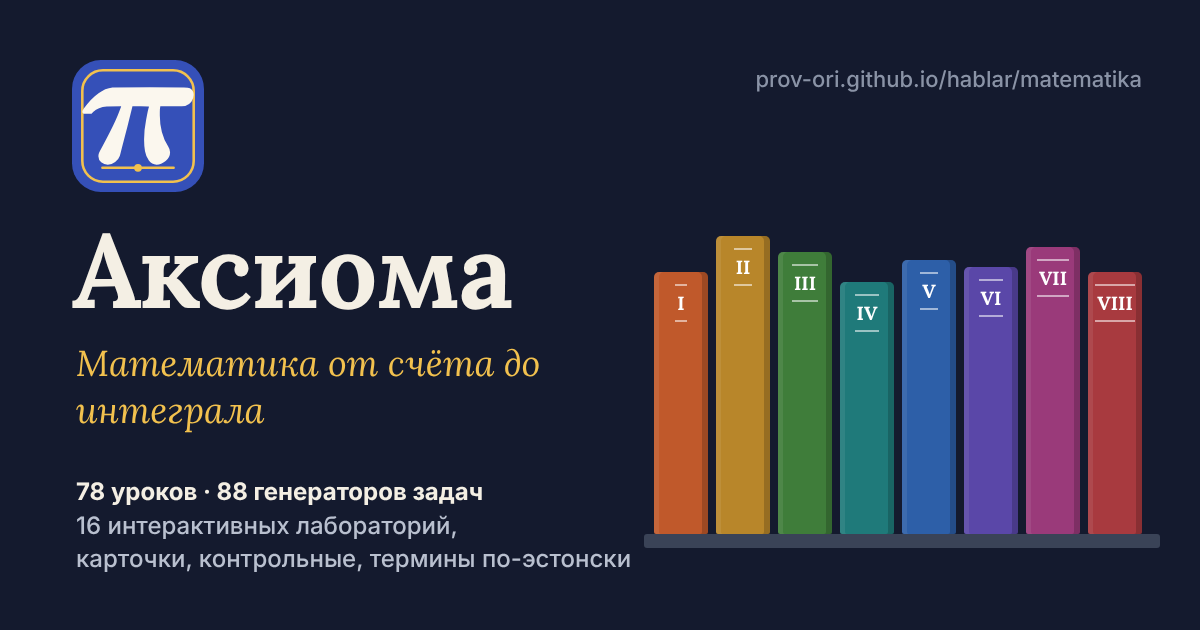
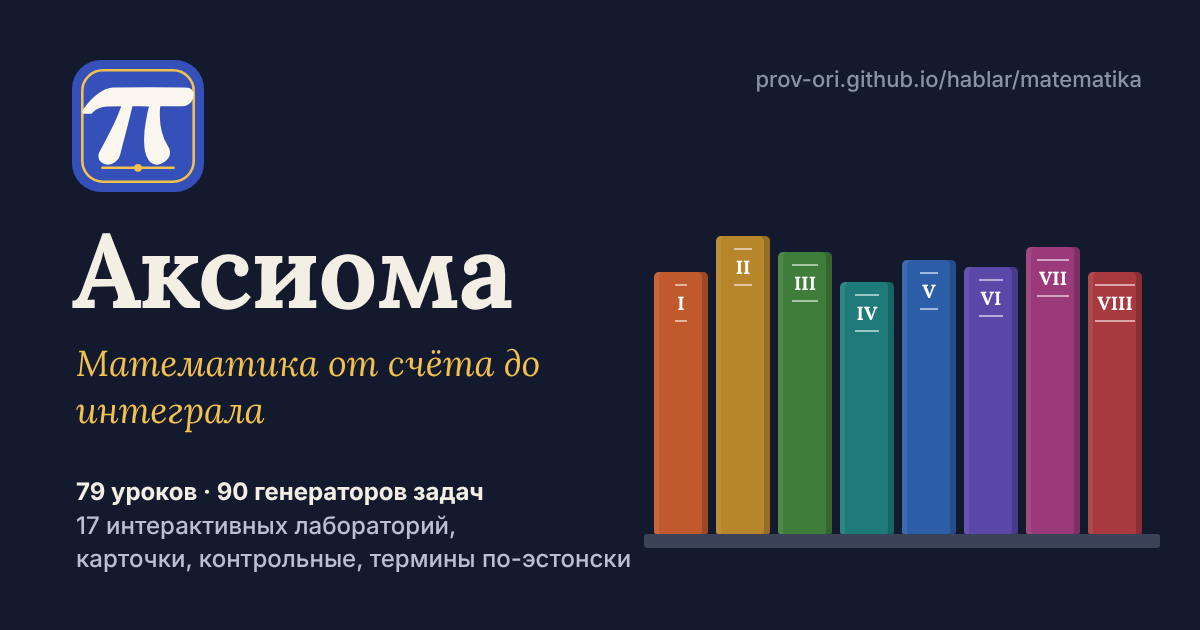
Add financial maths, loan lab and Estonian terminology trainer
- c5: lesson 'Финансовая математика' (simple/compound interest, effective rate, annuity loans, inflation, taxes)
- labs: loan calculator with balance and interest curves
- drills: d-finance; d-terms built from 410 Russian–Estonian pairs collected from all lessons
- fix Estonian terms: proper fraction is 'õige murd' (not 'lihtmurd'), protractor is 'nurgamõõtja'

Claude-Session: https://claude.ai/code/session_01792FmukhtfPDoVgYtZogG1

Changed region(s): [[0.0617, 0.754, 0.4008, 0.8746], [0.0617, 0.754, 0.0925, 0.7841]]

diff --git a/matematika/c5.js b/matematika/c5.js
@@ -447,5 +447,55 @@ $1 + \frac{1}{2} + \frac{1}{4} + \frac{1}{8} + \ldots = \frac{1}{1 - 0{,}5} = 2$
     ['Числа 4, $x$, 16 образуют геометрическую прогрессию ($x > 0$). $x = ?$', ['8', '10', '12', '6'], 0, '$x^2 = 64$.']
   ],
   events: [[-450, 'Зенон Элейский формулирует парадокс об Ахиллесе и черепахе', 'около 450 г. до н. э.']]
+},
+{
+  id: 'finance', title: 'Финансовая математика', sub: 'Простые и сложные проценты, кредит, инфляция, налоги', src: 'teacher',
+  body: String.raw`Проценты — это не только задачи из учебника: по ним считают вклады, кредиты, лизинг, инфляцию и налоги. В эстонской гимназии финансовая математика входит в узкий курс (kitsas matemaatika), а в расширенном опирается на прогрессии и логарифмы.
+
+## Простые и сложные проценты
+- **Простые**: проценты начисляются только на исходную сумму. $S = S_0(1 + rt)$ — арифметическая прогрессия.
+- **Сложные**: проценты начисляются и на уже начисленные проценты. $S = S_0(1 + r)^t$ — геометрическая прогрессия.
+
+1000 € под 5% годовых на 10 лет: простые — $1000 \cdot 1{,}5 = 1500$ €, сложные — $1000 \cdot 1{,}05^{10} \approx 1629$ €. Разница растёт со временем.
+
+## Частое начисление и эффективная ставка
+Если ставка 6% годовых, а проценты начисляют ежемесячно, за месяц добавляется $\frac{6\%}{12} = 0{,}5\%$. За год:
+$$(1 + 0{,}005)^{12} - 1 \approx 6{,}17\%$$
+Это **эффективная** годовая ставка. Банки в Эстонии обязаны указывать в договоре кредита **годовую процентную ставку затрат** (krediidi kulukuse määr) — она учитывает и комиссии, поэтому сравнивайте кредиты именно по ней.
+
+## Кредит с равными платежами (аннуитет)
+Кредит $S$ на $n$ месяцев под месячную ставку $i$ гасится одинаковыми платежами
+$$A = S \cdot \frac{i}{1 - (1 + i)^{-n}}$$
+Пример: 10 000 € на 5 лет под 6% годовых. $i = 0{,}005$, $n = 60$:
+$$A = 10\,000 \cdot \frac{0{,}005}{1 - 1{,}005^{-60}} \approx 193{,}33 \text{ €}$$
+Всего будет выплачено $60 \cdot 193{,}33 \approx 11\,600$ €, из них 1600 € — проценты. В начале срока большая часть платежа уходит на проценты, в конце — на погашение долга.
+@lab lab-loan
+>! Формула получается из суммы геометрической прогрессии: текущая стоимость всех будущих платежей равна сумме кредита.
+
+## Инфляция
+Если цены растут на $\pi$ в год, а вклад приносит $r$, то **реальная** доходность
+$$\frac{1 + r}{1 + \pi} - 1 \approx r - \pi$$
+Вклад под 3% при инфляции 5% на самом деле теряет около 1,9% покупательной способности в год.
+
+## Налоги
+Налог с оборота (käibemaks) уже включён в цену товара: цена без налога $\times (1 + \text{ставка})$. Подоходный налог (tulumaks) считают с дохода за вычетом необлагаемого минимума.
+>? Ставки меняются :: Упрощённый пример: ставка подоходного налога 22%, необлагаемый минимум 700 € в месяц. Тогда с зарплаты 1800 € налог $0{,}22 \cdot (1800 - 700) = 242$ €. Реальный расчёт учитывает также страхование от безработицы и II пенсионную ступень, а ставки и минимум меняются по годам — актуальные значения смотрите на emta.ee.
+
+## Правило 72 (70)
+Срок удвоения при ставке $r\%$ — примерно $\frac{72}{r}$ лет. При 6% — около 12 лет; точно $\frac{\ln 2}{\ln 1{,}06} \approx 11{,}9$.
+@drill d-finance
+>e процент — protsent, простые проценты — lihtintress, сложные проценты — liitintress, кредит — laen, ежемесячный платёж — kuumakse, процентная ставка — intressimäär, инфляция — inflatsioon, налог — maks, подоходный налог — tulumaks, налог с оборота — käibemaks.`,
+  facts: [['Простые проценты', '$S_0(1 + rt)$'], ['Сложные проценты', '$S_0(1 + r)^t$'], ['Эффективная ставка', '$(1 + \\frac{r}{m})^m - 1$'], ['Аннуитет', '$A = S\\frac{i}{1 - (1 + i)^{-n}}$'], ['Реальная доходность', '$\\frac{1 + r}{1 + \\pi} - 1$'], ['Правило 72', 'удвоение за $\\approx 72/r$ лет']],
+  cards: [['Чем сложные проценты отличаются от простых?', 'Проценты начисляются и на ранее начисленные проценты'], ['Формула аннуитетного платежа', '$A = S \\cdot \\frac{i}{1 - (1 + i)^{-n}}$'], ['Эффективная ставка при 12% годовых с ежемесячным начислением', '$1{,}01^{12} - 1 \\approx 12{,}68\\%$'], ['Вклад 4%, инфляция 6%. Реальная доходность?', 'Около −1,9% в год'], ['По какому показателю сравнивать кредиты?', 'По годовой процентной ставке затрат (krediidi kulukuse määr)'], ['Правило 72', 'Деньги удваиваются примерно за 72 / ставка лет']],
+  quiz: [
+    ['500 € под 4% простых годовых на 3 года — итог', ['560 €', '562,43 €', '520 €', '600 €'], 0, '$500(1 + 0{,}12)$; 562,43 € — это сложные проценты.'],
+    ['1000 € под 10% сложных годовых на 2 года — итог', ['1210 €', '1200 €', '1020 €', '1100 €'], 0, '$1000 \\cdot 1{,}1^2$.'],
+    ['Ставка 12% годовых, начисление ежемесячно. Эффективная годовая ставка —', ['больше 12%', 'ровно 12%', 'меньше 12%', '1%'], 0, '$1{,}01^{12} - 1 \\approx 12{,}68\\%$.'],
+    ['Что растёт по геометрической прогрессии?', ['сумма по сложным процентам', 'сумма по простым процентам', 'платёж по аннуитету', 'необлагаемый минимум'], 0, ''],
+    ['Вклад 2%, инфляция 4%. Покупательная способность вклада…', ['падает', 'растёт', 'не меняется', 'удваивается'], 0, ''],
+    ['При ставке 8% деньги удвоятся примерно за…', ['9 лет', '8 лет', '16 лет', '12 лет'], 0, '$72 : 8$.'],
+    ['Товар стоит 62 € с налогом 24%. Цена без налога —', ['50 €', '47,12 €', '38 €', '48,36 €'], 0, '$62 : 1{,}24$. Вычитать 24% от 62 € — ошибка.']
+  ],
+  events: [[1494, 'Лука Пачоли публикует правило 72 для удвоения капитала', '1494']]
 }
 ]);

diff --git a/matematika/c2.js b/matematika/c2.js
@@ -118,7 +118,7 @@ $$\frac{2}{3} = \frac{4}{6} = \frac{10}{15}, \qquad \frac{18}{24} = \frac{18 : 6
 @lab lab-fraction
 @drill d-simplify
 @drill d-fraccmp
->e дробь — murd, числитель — lugeja, знаменатель — nimetaja, сокращать — taandama, смешанное число — segaarv, правильная дробь — lihtmurd (õige murd), общий знаменатель — ühine nimetaja.`,
+>e дробь — murd, числитель — lugeja, знаменатель — nimetaja, сокращать — taandama, смешанное число — segaarv, обыкновенная дробь — harilik murd, правильная дробь — õige murd, неправильная дробь — liigmurd, общий знаменатель — ühine nimetaja.`,
   facts: [['$\\frac{a}{b}$', '$a : b$'], ['Правильная', 'числитель < знаменатель'], ['Основное свойство', '$\\frac{a}{b} = \\frac{ak}{bk}$'], ['Сократить до конца', 'разделить на НОД'], ['$\\frac{1}{3}$ vs $\\frac{1}{5}$', 'при равных числителях больше дробь с меньшим знаменателем'], ['$\\frac{7}{3}$', '$2\\frac{1}{3}$']],
   cards: [['Что показывает знаменатель?', 'На сколько равных частей разделили целое'], ['Основное свойство дроби', 'Числитель и знаменатель можно умножить или разделить на одно число ≠ 0'], ['Сократите $\\frac{24}{36}$', '$\\frac{2}{3}$'], ['Запишите $\\frac{11}{4}$ смешанным числом', '$2\\frac{3}{4}$'], ['Запишите $3\\frac{2}{5}$ неправильной дробью', '$\\frac{17}{5}$'], ['Что больше: $\\frac{2}{3}$ или $\\frac{3}{5}$?', '$\\frac{2}{3}$, так как $\\frac{10}{15} > \\frac{9}{15}$']],
   quiz: [
@@ -326,7 +326,7 @@ $$\frac{a}{b} = \frac{c}{d} \iff a \cdot d = b \cdot c$$
 ## Деление в отношении
 Разделить 60 € между братьями в отношении $2 : 3$: всего $2 + 3 = 5$ частей, одна часть $60 : 5 = 12$ €, братья получат 24 € и 36 €.
 @drill d-proportion
->e отношение — suhe, пропорция — võrdekujuline seos (võrre), прямая пропорциональность — võrdeline sõltuvus, обратная — pöördvõrdeline sõltuvus, масштаб — mõõtkava.`,
+>e отношение — suhe, пропорция — võrre, прямая пропорциональность — võrdeline sõltuvus, обратная — pöördvõrdeline sõltuvus, масштаб — mõõtkava.`,
   facts: [['Пропорция', '$\\frac{a}{b} = \\frac{c}{d}$'], ['Свойство', '$ad = bc$'], ['Прямая', '$\\frac{y}{x} = \\text{const}$'], ['Обратная', '$xy = \\text{const}$'], ['1 : 50 000', '1 см ↔ 500 м'], ['Деление в отношении $m : n$', 'одна часть = целое : $(m + n)$']],
   cards: [['Основное свойство пропорции', 'Произведение крайних равно произведению средних: $ad = bc$'], ['Найдите $x$: $\\frac{x}{9} = \\frac{4}{6}$', '$x = 6$'], ['Что значит масштаб 1 : 25 000?', '1 см на карте = 250 м на местности'], ['Пример обратной пропорциональности', 'Скорость и время на фиксированном пути'], ['Разделите 40 в отношении 3 : 5', '15 и 25']],
   quiz: [
@@ -404,7 +404,7 @@ $$C = 2\pi r = \pi d, \qquad S = \pi r^2$$
 Часть круга между двумя радиусами — **сектор**. Если угол сектора $\alpha$, его площадь — $\frac{\alpha}{360°}$ от площади круга. Так устроены круговые диаграммы: доля 25% — это сектор $90°$.
 @drill d-circle
 @drill d-angles1
->e угол — nurk, градус — kraad, транспортир — malli, смежные углы — kõrvunurgad, вертикальные углы — tippnurgad, длина окружности — ringjoone pikkus, площадь круга — ringi pindala, сектор — sektor.`,
+>e угол — nurk, градус — kraad, транспортир — nurgamõõtja, смежные углы — kõrvunurgad, вертикальные углы — tippnurgad, длина окружности — ringjoone pikkus, площадь круга — ringi pindala, сектор — sektor.`,
   facts: [['$\\pi$', '$\\approx 3{,}14$'], ['$C$', '$2\\pi r$'], ['$S$ круга', '$\\pi r^2$'], ['Смежные', 'в сумме 180°'], ['Вертикальные', 'равны'], ['Углы треугольника', '180°'], ['Сектор $\\alpha$', '$\\frac{\\alpha}{360°}\\pi r^2$']],
   cards: [['Что такое π?', 'Отношение длины окружности к диаметру, ≈ 3,14'], ['Длина окружности', '$C = 2\\pi r$'], ['Площадь круга', '$S = \\pi r^2$'], ['Сумма смежных углов', '180°'], ['Сумма углов треугольника', '180°'], ['Сколько градусов в секторе, изображающем 10% круговой диаграммы?', '36°']],
   quiz: [

diff --git a/matematika/drills.js b/matematika/drills.js
@@ -725,5 +725,22 @@
     if (lv === 2) return R.int(0, 1) ? { q: 'Правильная четырёхугольная пирамида: сторона основания ' + a + ', высота ' + hh + '. Найдите апофему.', a: m, kb: 'numeric', sol: '$\\sqrt{' + hh + '^2 + ' + half + '^2}$' } : { q: 'Правильная четырёхугольная пирамида: сторона основания ' + a + ', апофема ' + m + '. Найдите боковую поверхность.', a: 2 * a * m, kb: 'numeric', sol: '$\\frac{1}{2} \\cdot ' + 4 * a + ' \\cdot ' + m + '$' };
     return { q: 'Правильная четырёхугольная пирамида: сторона основания ' + a + ', апофема ' + m + '. Найдите объём.', a: a * a * hh / 3, kb: 'numeric', sol: 'Высота $\\sqrt{' + m + '^2 - ' + half + '^2} = ' + hh + '$, $V = \\frac{1}{3} \\cdot ' + a * a + ' \\cdot ' + hh + '$' };
   }, 'пирамида призма апофема');
+  /* ——— Финансы и термины ——— */
+  D(5, 'finance', 'd-finance', '🏦', 'Финансовая математика', 'Простые и сложные проценты, эффективная ставка, кредит. Ответ до сотых.', ['Простые и сложные', 'Эффективная ставка и удвоение', 'Ежемесячный платёж'], (lv, R) => {
+    if (lv === 1) { const S = R.int(2, 40) * 100, r = R.pick([2, 3, 4, 5, 6, 8, 10]), t = R.int(2, 8), cmp = R.int(0, 1); const v = cmp ? S * (1 + r / 100) ** t : S * (1 + r * t / 100); return { q: 'Вклад ' + S + ' € под ' + r + '% годовых, ' + (cmp ? 'сложные' : 'простые') + ' проценты. Сколько будет через ' + t + ' лет?', a: R.round(v, 2), tol: 0.011, show: R.num(R.round(v, 2)) + ' €', unit: '€', kb: 'decimal', sol: cmp ? '$' + S + ' \\cdot ' + R.tn(1 + r / 100) + '^{' + t + '}$' : '$' + S + '(1 + ' + R.tn(r / 100) + ' \\cdot ' + t + ')$' }; }
+    if (lv === 2) { const r = R.pick([3, 4, 5, 6, 8, 9, 12]); if (R.int(0, 1)) { const v = 100 * ((1 + r / 1200) ** 12 - 1); return { q: 'Ставка ' + r + '% годовых, проценты начисляются ежемесячно. Найдите эффективную годовую ставку (в %, до сотых).', a: R.round(v, 4), tol: 0.011, show: R.num(R.round(v, 2)) + '%', unit: '%', kb: 'decimal', sol: '$\\left(1 + \\frac{' + R.tn(r / 100) + '}{12}\\right)^{12} - 1$' }; } const t = Math.ceil(Math.log(2) / Math.log(1 + r / 100)); return { q: 'Через сколько полных лет вклад под ' + r + '% годовых (сложные проценты) впервые станет больше чем вдвое?', a: t, unit: 'лет', kb: 'numeric', sol: '$t > \\frac{\\ln 2}{\\ln ' + R.tn(1 + r / 100) + '} \\approx ' + R.tn(R.round(Math.log(2) / Math.log(1 + r / 100), 2)) + '$ (правило 72: ' + R.tn(R.round(72 / r, 1)) + ')' }; }
+    const S = R.int(2, 40) * 500, r = R.pick([3, 4, 5, 6, 7.2, 9, 12]), y = R.int(1, 10); const i = r / 1200, n = 12 * y; const A = S * i / (1 - (1 + i) ** -n);
+    return { q: 'Кредит ' + S + ' € на ' + y + ' ' + (y === 1 ? 'год' : y < 5 ? 'года' : 'лет') + ' под ' + R.num(r) + '% годовых, равные ежемесячные платежи. Найдите платёж (до сотых).', a: R.round(A, 2), tol: 0.011, show: R.num(R.round(A, 2)) + ' €', unit: '€', kb: 'decimal', sol: '$i = ' + R.tn(R.round(i, 6)) + '$, $n = ' + n + '$, $A = ' + S + ' \\cdot \\frac{i}{1 - (1 + i)^{-' + n + '}}$' };
+  }, 'кредит проценты вклад инфляция');
+
+  // Эстонские термины: пары собираются из строк «По-эстонски» всех уроков
+  const TERMS = (() => { const seen = new Set(), out = []; for (const l of PLATFORM.lessons) for (const m of l.body.matchAll(/^>e\s+(.*)$/gm)) { let t = m[1]; const k = t.indexOf('Термины:'); if (k >= 0) t = t.slice(k + 8); for (const ch of t.replace(/\.$/, '').split(/,\s+/)) { const p = ch.split(' — '); if (p.length !== 2) continue; const ru = p[0].trim(), et = p[1].trim(); if (!/[а-яё]/i.test(ru) || /[а-яё]/i.test(et) || ru.length > 40 || et.length > 45 || /\$/.test(ru + et) || seen.has(ru) || seen.has('et:' + et)) continue; seen.add(ru); seen.add('et:' + et); out.push({ ru, et, c: l.course }); } } return out; })();
+  PLATFORM.estTerms = TERMS;
+  D(5, null, 'd-terms', '🇪🇪', 'Термины по-эстонски', 'Математические термины всех курсов: ' + TERMS.length + ' пар «русский — эстонский».', ['Курсы I–IV: рус → эст', 'Курсы V–VIII: рус → эст', 'Все курсы: эст → рус'], (lv, R) => {
+    const pool = lv === 1 ? TERMS.filter(t => t.c <= 4) : lv === 2 ? TERMS.filter(t => t.c >= 5) : TERMS;
+    const t = R.pick(pool); const others = R.sample(pool.filter(x => x !== t), 3);
+    if (lv < 3) return { q: 'Как по-эстонски «' + t.ru + '»?', opts: [t.et, ...others.map(x => x.et)], sol: t.ru + ' — **' + t.et + '**' };
+    return { q: 'Что означает «' + t.et + '»?', opts: [t.ru, ...others.map(x => x.ru)], sol: t.et + ' — **' + t.ru + '**' };
+  }, 'эстонский термины eesti keel');
 })();
 

diff --git a/matematika/labs.js b/matematika/labs.js
@@ -373,4 +373,26 @@
     mode.querySelectorAll('[data-r]').forEach(b => b.onclick = () => { const k = +b.dataset.r; if (!k) { st.n = 0; st.cnt = {}; } const two = mode.querySelector('select').value === '2'; for (let i = 0; i < k; i++) { const x = 1 + Math.floor(Math.random() * 6) + (two ? 1 + Math.floor(Math.random() * 6) : 0); st.cnt[x] = (st.cnt[x] || 0) + 1; st.n++; } s.redraw(); });
     el.appendChild(s.ro); s.redraw();
   }, 'вероятность кубик частота закон больших чисел');
+  /* 17. Кредитный калькулятор */
+  L(5, 'finance', 'lab-loan', '🏦', 'Кредитный калькулятор', 'Сумма, ставка и срок: ежемесячный платёж, переплата и как тает долг.', (el, K) => {
+    let P;
+    const s = setup(el, ro => {
+      const S = v.S, i = v.r / 100 / 12, n = v.y * 12;
+      const A = i ? S * i / (1 - (1 + i) ** -n) : S / n;
+      P.xmin = -0.03 * v.y; P.xmax = v.y * 1.04; P.ymin = -S * 0.03; P.ymax = S * 1.12; P.size(); P.clear(); const c = P.c, ctx = P.ctx;
+      ctx.strokeStyle = c.line; ctx.lineWidth = 1; ctx.fillStyle = c.muted; ctx.font = '12px system-ui'; ctx.textAlign = 'center';
+      const stepY = v.y <= 10 ? 1 : 5; for (let t = 0; t <= v.y; t += stepY) { ctx.beginPath(); ctx.moveTo(P.X(t), 0); ctx.lineTo(P.X(t), P.h - 18); ctx.stroke(); ctx.fillText(t + (t ? ' г.' : ''), P.X(t), P.h - 4); }
+      ctx.textAlign = 'left'; for (let q = 1; q <= 4; q++) { const y = S * q / 4; ctx.beginPath(); ctx.moveTo(0, P.Y(y)); ctx.lineTo(P.w, P.Y(y)); ctx.stroke(); ctx.fillText(Math.round(y).toLocaleString('ru-RU') + ' €', 4, P.Y(y) - 3); }
+      let bal = S, paidInt = 0; const pb = [[0, S]], pi = [[0, 0]];
+      for (let m = 1; m <= n; m++) { const int = bal * i; paidInt += int; bal -= A - int; if (m % 3 === 0 || m === n) { pb.push([m / 12, Math.max(0, bal)]); pi.push([m / 12, paidInt]); } }
+      P.poly([...pb, [v.y, 0], [0, 0]], alpha(c.acc, .15), null);
+      const line = (pts, col, w) => { ctx.strokeStyle = col; ctx.lineWidth = w; ctx.beginPath(); pts.forEach(([x, y], k) => k ? ctx.lineTo(P.X(x), P.Y(y)) : ctx.moveTo(P.X(x), P.Y(y))); ctx.stroke(); };
+      line(pb, c.acc, 3); line(pi, c.bad, 3);
+      const total = A * n;
+      ro.innerHTML = '<div class="bigf">' + K.tex('A = ' + tn(S, 0) + ' \\cdot \\frac{' + tn(i, 5) + '}{1 - ' + tn(1 + i, 5) + '^{-' + n + '}} \\approx ' + tn(A, 2) + '\\text{ €}') + '</div>Ежемесячный платёж <b>' + fmt(A, 2) + ' €</b>, всего выплатите <b>' + fmt(total, 0) + ' €</b>, из них проценты (переплата) <b style="color:var(--bad)">' + fmt(total - S, 0) + ' €</b> — это ' + fmt(100 * (total - S) / S, 1) + '% от суммы кредита.<br>Синяя линия — остаток долга, красная — уже выплаченные проценты. Попробуйте удвоить срок: платёж уменьшится, а переплата вырастет.';
+    });
+    P = plane(el, { xmin: 0, xmax: 5, ymin: 0, ymax: 11000, ratio: 0.5, maxH: 340 });
+    const v = controls(el, [['S', 'Сумма, €', 1000, 50000, 500, 10000], ['r', 'Ставка, % годовых', 0, 20, 0.5, 6], ['y', 'Срок, лет', 1, 30, 1, 5]], K, s.redraw);
+    el.appendChild(s.ro); s.redraw();
+  }, 'кредит аннуитет проценты калькулятор');
 })();

diff --git a/matematika/c1.js b/matematika/c1.js
@@ -28,7 +28,7 @@ PLATFORM.add(1, [
 Числа удобно представлять точками на прямой: 0 слева, а каждый шаг вправо добавляет единицу. Чем правее точка, тем больше число. На этой идее позже построены отрицательные числа и графики функций.
 @drill d-place
 @drill d-compare
->e число — arv, цифра — number (!), разряд — järk, единицы — üheliste järk, десятки — kümneliste järk, сотни — sajaliste järk, чётное — paarisarv, нечётное — paaritu arv.
+>e число — arv, цифра — number (а число — arv!), разряд — järk, единицы — üheliste järk, десятки — kümneliste järk, сотни — sajaliste järk, чётное — paarisarv, нечётное — paaritu arv.
 >i Наши цифры называют арабскими, но придумали их в Индии; в Европу их принёс Фибоначчи в «Книге абака» (1202).`,
   facts: [['Цифр', '10: от 0 до 9'], ['Система', 'десятичная позиционная'], ['10 единиц', '1 десяток'], ['10 десятков', '1 сотня'], ['10 сотен', '1 тысяча'], ['Сравнение', 'по количеству цифр, затем слева направо'], ['Чётное', 'оканчивается на 0, 2, 4, 6, 8']],
   cards: [['Сколько цифр в десятичной системе?', 'Десять: 0–9'], ['Что означает цифра 3 в числе 308?', 'Три сотни (300)'], ['Как сравнить 472 и 481?', 'По старшим разрядам слева направо: 7 десятков < 8 десятков, значит $472 < 481$'], ['Как узнать чётное число?', 'По последней цифре: 0, 2, 4, 6, 8'], ['Разложите 652 по разрядам', '$600 + 50 + 2$'], ['Сколько десятков в сотне?', '10']],

diff --git a/matematika/extra.js b/matematika/extra.js
@@ -174,6 +174,8 @@ PLATFORM.about = String.raw`«Аксиома» — бесплатный учеб
 - **Задачник** — генераторы задач с бесконечным числом вариантов, тремя уровнями сложности, проверкой ответа и разбором. Уровень засчитывается за 8 верных из 10.
 - **Лаборатория** — интерактивные модели: двигайте ползунки и тяните точки, чтобы увидеть, как устроены функции, тригонометрия, производная и интеграл.
 - **Контрольные** — задания в формате экзамена с полными решениями и самооценкой.
+- **Термины по-эстонски** — тренажёр из 400+ пар «русский — эстонский», собранных из всех уроков (в задачнике, курс V).
+- **Финансовая математика** — вклады, кредиты, инфляция и налоги с кредитным калькулятором.
 - **Тренажёры**: карточки с интервальным повторением, пробный экзамен, блиц, «Формула и смысл», «Узнай по свойству», история математики.
 
 ## Как заниматься

diff --git a/matematika/README.md b/matematika/README.md
@@ -7,9 +7,9 @@
 
 | Раздел | Содержание |
 |---|---|
-| Курсы | 8 курсов по структуре эстонской программы, 78 уроков: I «Числа и счёт» (1–3 кл.), II «Арифметика и дроби» (4–6), III «Алгебра» (7–9), IV «Геометрия» (7–9), V «Уравнения и функции» (10), VI «Тригонометрия и векторы», VII «Начала анализа», VIII «Вероятность и пространство» (11–12). В каждом уроке — формулы (KaTeX), таблица главного, вопросы, карточки и эстонские термины. |
-| Задачник | 88 генераторов задач, по 3 уровня, проверка ответа (дроби, корни, π, несколько корней), разбор, режим «Спринт 60 с», смешанная тренировка и «Разминка дня». |
-| Лаборатория | 16 интерактивных моделей: умножение-прямоугольник, числовая прямая, дроби-пиццы, прямая, парабола, система уравнений, квадраты Пифагора, тригонометрия треугольника, конструктор графиков, показательная и логарифм, единичная окружность (с перетаскиванием), синусоида, векторы, касательная, суммы Римана, кубики и закон больших чисел. |
+| Курсы | 8 курсов по структуре эстонской программы, 79 уроков: I «Числа и счёт» (1–3 кл.), II «Арифметика и дроби» (4–6), III «Алгебра» (7–9), IV «Геометрия» (7–9), V «Уравнения и функции» (10), VI «Тригонометрия и векторы», VII «Начала анализа», VIII «Вероятность и пространство» (11–12). В каждом уроке — формулы (KaTeX), таблица главного, вопросы, карточки и эстонские термины. |
+| Задачник | 90 генераторов задач (включая тренажёр эстонских терминов), по 3 уровня, проверка ответа (дроби, корни, π, несколько корней), разбор, режим «Спринт 60 с», смешанная тренировка и «Разминка дня». |
+| Лаборатория | 17 интерактивных моделей: умножение-прямоугольник, числовая прямая, дроби-пиццы, прямая, парабола, система уравнений, квадраты Пифагора, тригонометрия треугольника, конструктор графиков, показательная и логарифм, единичная окружность (с перетаскиванием), синусоида, векторы, касательная, суммы Римана, кубики и закон больших чисел, кредитный калькулятор. |
 | Контрольные | 8 контрольных (96 заданий) по образцу экзаменов с полными решениями и самооценкой. |
 | Тренажёры | Карточки (Лейтнер), пробный экзамен, блиц, «Формула и смысл», «Узнай по свойству», история математики. |
 | Справочники | Словарь из 90 терминов (рус. — эст.), 29 математиков, лента истории. |

diff --git a/README.md b/README.md
@@ -1,6 +1,6 @@
 # ¡Hablar! — интерактивная платформа для изучения испанского
 
-> В репозитории также есть **[«Аксиома»](matematika/)** — интерактивная платформа по математике с нуля до гимназии (Эстония): 8 курсов, 78 уроков, 88 генераторов задач, 16 лабораторий. Подробности — в [matematika/README.md](matematika/README.md).
+> В репозитории также есть **[«Аксиома»](matematika/)** — интерактивная платформа по математике с нуля до гимназии (Эстония): 8 курсов, 79 уроков, 90 генераторов задач, 17 лабораторий. Подробности — в [matematika/README.md](matematika/README.md).
 
 Веб-приложение без сборки и зависимостей: откройте `index.html` в браузере — и можно учиться.
 Весь прогресс хранится локально в браузере (есть экспорт/импорт в JSON).
